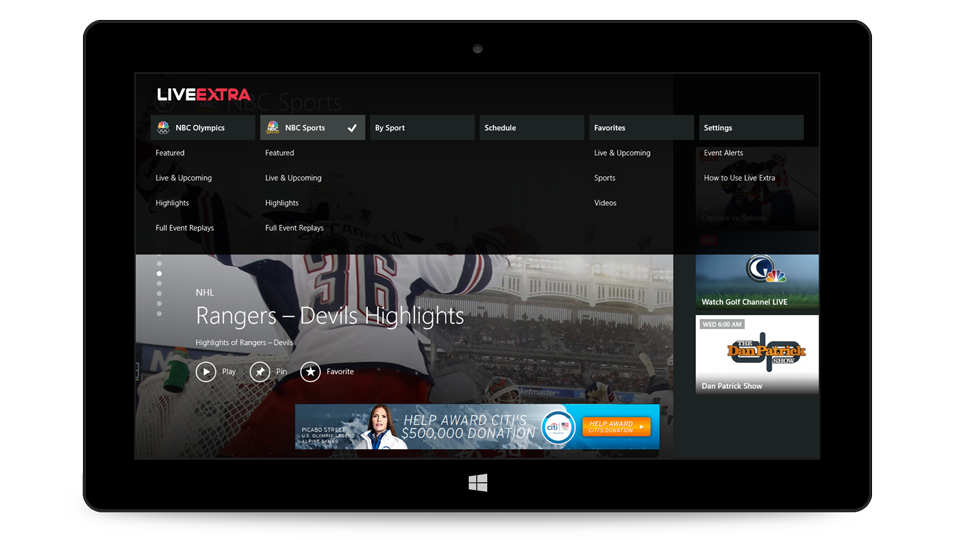
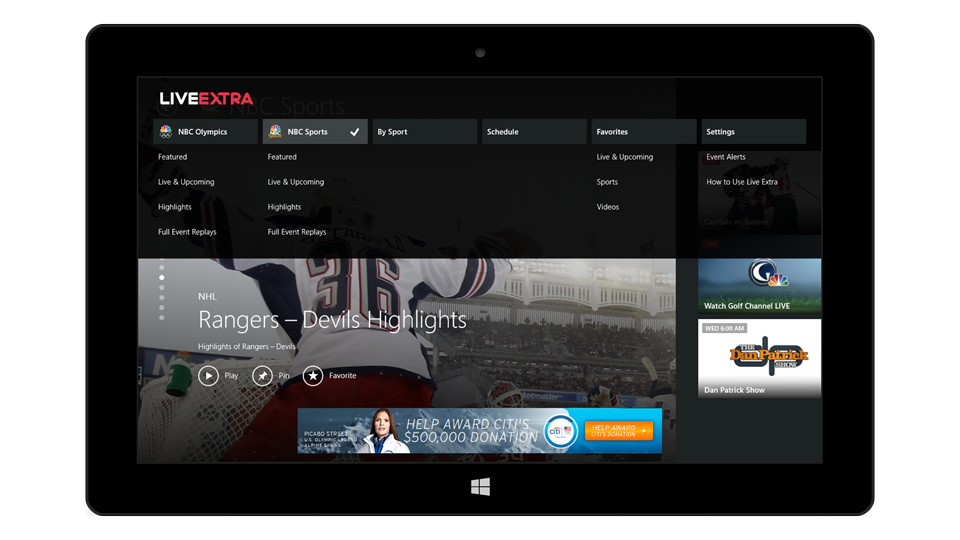
added screambox content; edited nbc sports tablet image for no shadow

diff --git a/source/about/index.md b/source/about/index.md
@@ -4,7 +4,7 @@ title: About
 # About
 
 
-My name is Justin. I'm a designer from California. One of my greatest joys in life is creating things—products, experiences, visual identities—that are elegant and delightful. I also like music, taking [pictures](http://ihardlyknowher.com/justinjaywang), nature, playing sports, and cooking.
+My name is Justin. I'm a designer from California. One of my greatest joys in life is creating things—products, experiences, visual identities—that are elegant and delightful. I also love music, taking [pictures](http://ihardlyknowher.com/justinjaywang), nature, playing sports, and cooking.
 
 Until recently, I designed and developed apps at Vertigo. Prior to that, I studied engineering at UC Berkeley, focusing on human-centered design.
 

diff --git a/source/_posts/screambox.md b/source/_posts/screambox.md
@@ -1,7 +1,7 @@
 title: Screambox
 date: 2014-04
 updated: 2014-04
-thumbnail: home.png
+thumbnail: home.jpg
 description: A home for horror movies.
 color:
 vertical_layout:
@@ -14,6 +14,8 @@ tags:
 
 # Screambox
 
-A website for horror. I worked on UX design and also front-end development.
+Screambox is an on-demand video service for horror movies. The website launched in beta in the summer of 2014.
 
-Visit [website](https://www.screambox.com/)
+###### Visit [Screambox](https://www.screambox.com/).
+
+<img class="wide rounded" src="home.jpg" alt="">

diff --git a/source/_posts/bare.md b/source/_posts/bare.md
@@ -6,7 +6,7 @@ description: Magazine logo.
 color:
 vertical_layout:
 reading_time: 2
-featured: 1
+featured: 0
 categories:
 tags:
 - school
